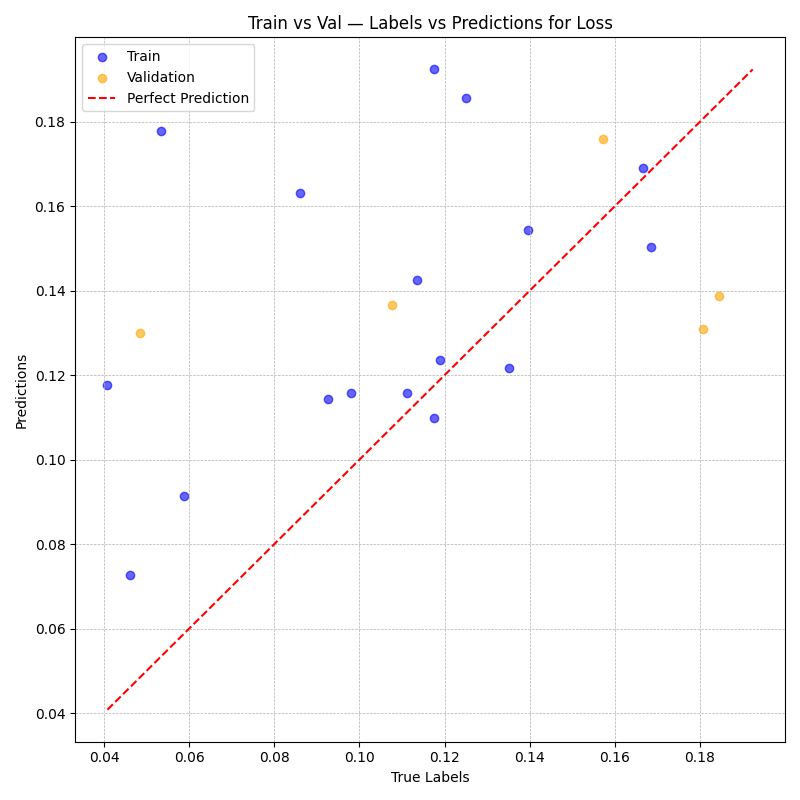
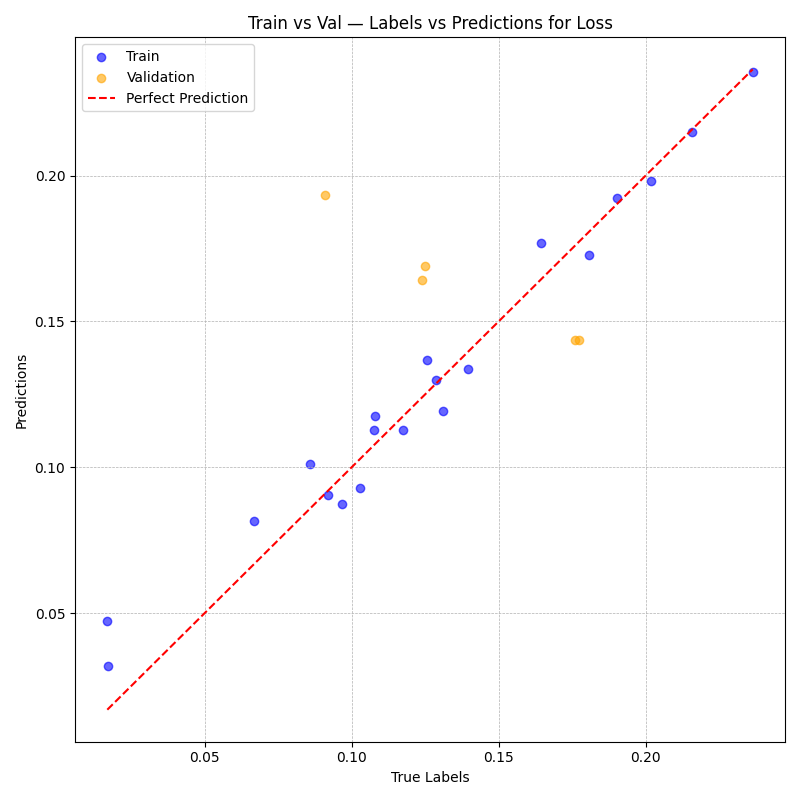
overfitting test with new model

diff --git a/co-phyloformer_asym/train.py b/co-phyloformer_asym/train.py
@@ -256,7 +256,7 @@ def encode_sequence(sequence, max_len=200):
 
 def main(fabric: Fabric):
     # Load Data
-    preencoded_dir = "/lustre/fswork/projects/rech/vcu/commun/Co-Phyloformer/generate_asymmetree/generated_trees/test/"
+    preencoded_dir = "/lustre/fsn1/projects/rech/vcu/commun/Co-Phyloformer/generate_asymmetree/generated_trees/asym_preencoded/"
     #preencoded_dir = '/Users/gabriele/Co-phyloformer/generate_treeducken/generated_trees/test/'
     # Build file list once, then create train/val datasets with different masking policies.
     dataset = LazyCophyloformerDataset(preencoded_dir, mask_prob=0.0)
@@ -280,7 +280,7 @@ def main(fabric: Fabric):
     device = fabric.device
     epochs = 500
 
-    batch_size = 8
+    batch_size = 64
     overfit_mode = os.environ.get("OVERFIT_MODE", "0").strip() == "1"
     train_num_workers = int(os.environ.get("TRAIN_NUM_WORKERS", "0" if overfit_mode else "8"))
     val_num_workers = int(os.environ.get("VAL_NUM_WORKERS", str(train_num_workers)))
